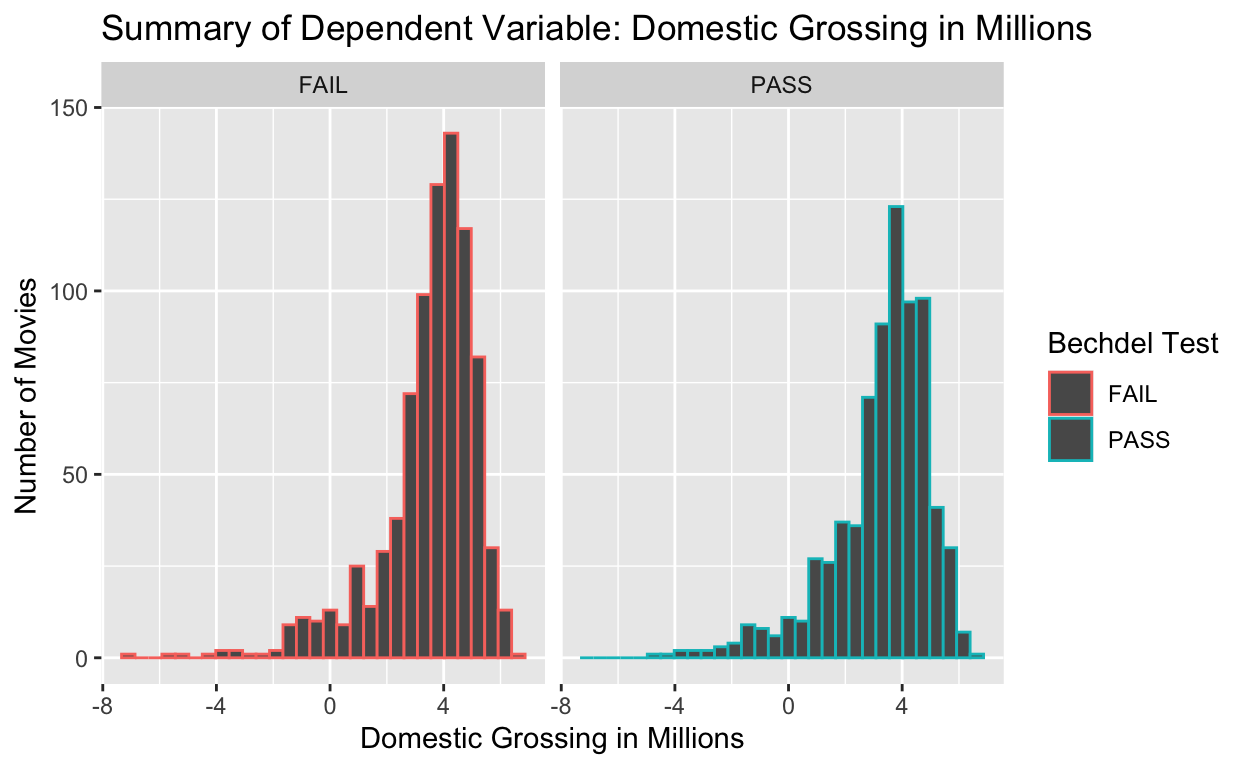
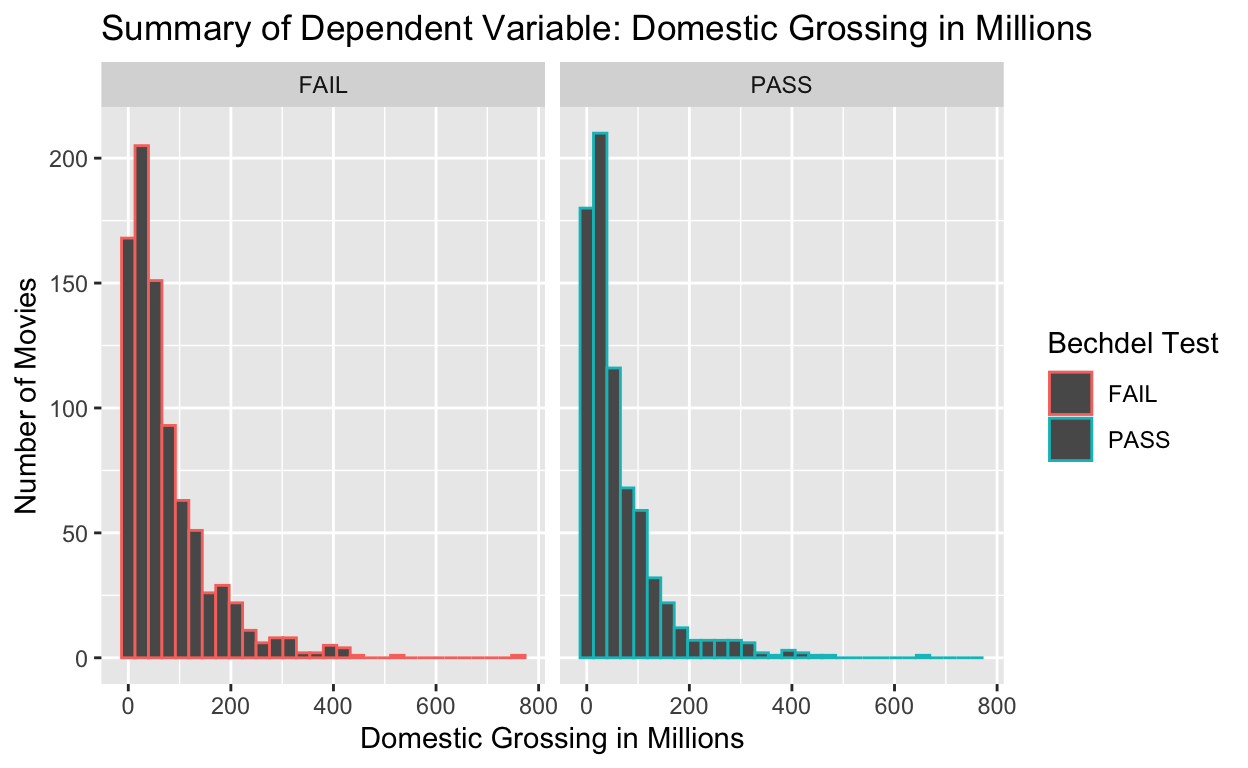
12/9 day

diff --git a/index.html b/index.html
@@ -1535,13 +1535,56 @@ code span.wa { color: #5e5e5e; font-style: italic; } /* Warning */
 </div>
 </div>
 <h1 id="data">Data</h1>
-<p>The data for this project was collected from FiveThiryEight through GitHub because it was used in a study called [“The Dollar-And-Cents Case Against Hollywood’s Exclusion of Women”] (<a href="https://fivethirtyeight.com/features/the-dollar-and-cents-case-against-hollywoods-exclusion-of-women/" class="uri">https://fivethirtyeight.com/features/the-dollar-and-cents-case-against-hollywoods-exclusion-of-women/</a>) that summarized how women have been represented in movies over time, based on the Bechdel Test. The dataset contains information about 1,795 films that range from the years 1970 to 2013. The data includes the title of each movie, a binary for whether the movie passes or fails the Bechdel Test, the budgets, the domestic grossing, and those same variables standardized based on 2013 monetary values to account for inflation. The dependent variable (the y-variable) is domestic grossing throughout the study because that is the variable used to measure the success of each film. There are a few independent variables (x-variables) that are utilized in the data visualizations including the budgets of the movies, the year they were released, and, most importantly, whether the movie passes the Bechdel Test. All of the variables are quantitative except for the Bechdel Test which is a Pass/Fail binary, another type of categorical variable. The data was collected likely from existing databases from box offices that would preserve movies’ budgets and grossing data. FiveThirtyEight, which is known for their data projects, has used a website called The-Numbers.com with daily and archived updates about how films are doing in theaters and at home, so it is very possible they took some of their data from there as well as Bechdel.com which tracks which movies pass the three criteria of the Bechdel Test. The following is a summary of the dependent variable, the domestic grossing of the movies, divided based on its Bechdel status:</p>
+<p>The data for this project was collected from FiveThiryEight through GitHub because it was used in a study called [The Dollar-And-Cents Case Against Hollywood’s Exclusion of Women] (<a href="https://fivethirtyeight.com/features/the-dollar-and-cents-case-against-hollywoods-exclusion-of-women/" class="uri">https://fivethirtyeight.com/features/the-dollar-and-cents-case-against-hollywoods-exclusion-of-women/</a>) that summarized how women have been represented in movies over time, based on the Bechdel Test. The dataset contains information about 1,795 films that range from the years 1970 to 2013. The data includes the title of each movie, a binary for whether the movie passes or fails the Bechdel Test, the budgets, the domestic grossing, and those same variables standardized based on 2013 monetary values to account for inflation. The variables in this data that will be used are described below:</p>
+<table>
+<colgroup>
+<col style="width: 24%" />
+<col style="width: 75%" />
+</colgroup>
+<thead>
+<tr class="header">
+<th style="text-align: left;">Name</th>
+<th style="text-align: left;">Description</th>
+</tr>
+</thead>
+<tbody>
+<tr class="odd">
+<td style="text-align: left;"><code>binary</code></td>
+<td style="text-align: left;">whether a movies passes or fails the Bechdel Test</td>
+</tr>
+<tr class="even">
+<td style="text-align: left;"><code>title</code></td>
+<td style="text-align: left;">movie title</td>
+</tr>
+<tr class="odd">
+<td style="text-align: left;"><code>year</code></td>
+<td style="text-align: left;">year of the movie’s release</td>
+</tr>
+<tr class="even">
+<td style="text-align: left;"><code>budget_millions</code></td>
+<td style="text-align: left;">budget for a movie in millions of US dollars</td>
+</tr>
+<tr class="odd">
+<td style="text-align: left;"><code>domgross_millsion</code></td>
+<td style="text-align: left;">domestic grossing for a movie in millions of people</td>
+</tr>
+<tr class="even">
+<td style="text-align: left;"><code>gdpPercap</code></td>
+<td style="text-align: left;">GDP per capita (US dollars, inflation-adjusted)</td>
+</tr>
+<tr class="odd">
+<td style="text-align: left;"></td>
+<td style="text-align: left;"></td>
+</tr>
+</tbody>
+</table>
+<p>The dependent variable (the y-variable) in this study is domestic grossing throughout the study because that is the variable used to measure the success of each film. There are a few independent variables (x-variables) that are utilized in the data visualizations including the budgets of the movies, the year they were released, and, most importantly, whether the movie passes the Bechdel Test. All of the variables are quantitative except for the Bechdel Test which is a Pass/Fail binary, another type of categorical variable. The data was collected likely from existing databases from box offices that would preserve movies’ budgets and grossing data. FiveThirtyEight, which is known for their data projects, has used a website called The-Numbers.com with daily and archived updates about how films are doing in theaters and at home, so it is very possible they took some of their data from there as well as Bechdel.com which tracks which movies pass the three criteria of the Bechdel Test. The following is a summary of the dependent variable, the domestic grossing of the movies, divided based on its Bechdel status:</p>
 <div class="layout-chunk" data-layout="l-body">
 <div class="sourceCode">
 <pre class="sourceCode r"><code class="sourceCode r"><span><span class='kw'><a href='https://rdrr.io/r/base/library.html'>library</a></span><span class='op'>(</span><span class='va'><a href='https://ggplot2.tidyverse.org'>ggplot2</a></span><span class='op'>)</span></span>
 <span><span class='co'>#Summary of dependent variable (domestic grossing)</span></span>
 <span><span class='va'>domgross_plot</span> <span class='op'>&lt;-</span> <span class='va'>bechdel</span> <span class='op'>|&gt;</span></span>
-<span>  <span class='fu'><a href='https://ggplot2.tidyverse.org/reference/ggplot.html'>ggplot</a></span><span class='op'>(</span><span class='va'>bechdel</span>, mapping <span class='op'>=</span> <span class='fu'><a href='https://ggplot2.tidyverse.org/reference/aes.html'>aes</a></span><span class='op'>(</span>x <span class='op'>=</span> <span class='fu'><a href='https://rdrr.io/r/base/Log.html'>log</a></span><span class='op'>(</span><span class='va'>domgross_millions</span><span class='op'>)</span>, color <span class='op'>=</span> <span class='va'>binary</span><span class='op'>)</span><span class='op'>)</span> <span class='op'>+</span> <span class='fu'><a href='https://ggplot2.tidyverse.org/reference/geom_histogram.html'>geom_histogram</a></span><span class='op'>(</span><span class='op'>)</span> <span class='op'>+</span> <span class='fu'><a href='https://ggplot2.tidyverse.org/reference/facet_wrap.html'>facet_wrap</a></span><span class='op'>(</span><span class='op'>~</span> <span class='va'>binary</span><span class='op'>)</span> <span class='op'>+</span> <span class='fu'><a href='https://ggplot2.tidyverse.org/reference/labs.html'>labs</a></span><span class='op'>(</span>x<span class='op'>=</span> <span class='st'>"Domestic Grossing in Millions"</span>, y <span class='op'>=</span> <span class='st'>"Number of Movies"</span>, title <span class='op'>=</span> <span class='st'>"Summary of Dependent Variable: Domestic Grossing in Millions"</span>, color <span class='op'>=</span> <span class='st'>"Bechdel Test"</span><span class='op'>)</span></span>
+<span>  <span class='fu'><a href='https://ggplot2.tidyverse.org/reference/ggplot.html'>ggplot</a></span><span class='op'>(</span><span class='va'>bechdel</span>, mapping <span class='op'>=</span> <span class='fu'><a href='https://ggplot2.tidyverse.org/reference/aes.html'>aes</a></span><span class='op'>(</span>x <span class='op'>=</span> <span class='va'>domgross_millions</span>, color <span class='op'>=</span> <span class='va'>binary</span><span class='op'>)</span><span class='op'>)</span> <span class='op'>+</span> <span class='fu'><a href='https://ggplot2.tidyverse.org/reference/geom_histogram.html'>geom_histogram</a></span><span class='op'>(</span><span class='op'>)</span> <span class='op'>+</span> <span class='fu'><a href='https://ggplot2.tidyverse.org/reference/facet_wrap.html'>facet_wrap</a></span><span class='op'>(</span><span class='op'>~</span> <span class='va'>binary</span><span class='op'>)</span> <span class='op'>+</span> <span class='fu'><a href='https://ggplot2.tidyverse.org/reference/labs.html'>labs</a></span><span class='op'>(</span>x<span class='op'>=</span> <span class='st'>"Domestic Grossing in Millions"</span>, y <span class='op'>=</span> <span class='st'>"Number of Movies"</span>, title <span class='op'>=</span> <span class='st'>"Summary of Dependent Variable: Domestic Grossing in Millions"</span>, color <span class='op'>=</span> <span class='st'>"Bechdel Test"</span><span class='op'>)</span></span>
 <span><span class='va'>domgross_plot</span></span></code></pre>
 </div>
 <p><img src="index_files/figure-html5/unnamed-chunk-2-1.png" width="624" /></p>
@@ -1597,16 +1640,20 @@ code span.wa { color: #5e5e5e; font-style: italic; } /* Warning */
 <span><span class='co'>#Linear Regression</span></span>
 <span><span class='va'>m.lm</span> <span class='op'>&lt;-</span> <span class='fu'><a href='https://rdrr.io/r/stats/lm.html'>lm</a></span><span class='op'>(</span><span class='va'>domgross_millions</span> <span class='op'>~</span> <span class='va'>binary</span> <span class='op'>+</span></span>
 <span>             <span class='va'>budget_millions</span> <span class='op'>+</span> <span class='va'>year</span>, </span>
-<span>           data <span class='op'>=</span> <span class='va'>bechdel</span><span class='op'>)</span></span>
+<span>           data <span class='op'>=</span> <span class='va'>bechdel2</span><span class='op'>)</span></span>
 <span><span class='va'>table</span> <span class='op'>&lt;-</span> <span class='fu'><a href='https://vincentarelbundock.github.io/modelsummary/reference/modelsummary.html'>modelsummary</a></span><span class='op'>(</span><span class='va'>m.lm</span>, stars <span class='op'>=</span> <span class='cn'>TRUE</span>,</span>
-<span>             gof_omit <span class='op'>=</span> <span class='fu'><a href='https://rdrr.io/r/base/c.html'>c</a></span><span class='op'>(</span><span class='st'>"IC|Lik.|RMSE"</span><span class='op'>)</span>,</span>
+<span>             gof_omit <span class='op'>=</span> <span class='fu'><a href='https://rdrr.io/r/base/c.html'>c</a></span><span class='op'>(</span><span class='st'>"IC|Lik.|RMSE"</span><span class='op'>)</span>, notes <span class='op'>=</span> <span class='st'>"Outcome = Domestic Grossing"</span>,</span>
 <span>             coef_rename <span class='op'>=</span> <span class='fu'><a href='https://rdrr.io/r/base/c.html'>c</a></span><span class='op'>(</span><span class='st'>"(Intercept)"</span><span class='op'>=</span><span class='st'>"Intercept"</span>, </span>
 <span>                             binaryPASS <span class='op'>=</span> <span class='st'>"Bechdel Test"</span>, </span>
 <span>                             budget_millions <span class='op'>=</span> <span class='st'>"Budget in Millions of Dollars"</span>,</span>
-<span>                             year <span class='op'>=</span> <span class='st'>"Year"</span><span class='op'>)</span>, na.rm <span class='op'>=</span> <span class='cn'>TRUE</span><span class='op'>)</span></span>
+<span>                             year <span class='op'>=</span> <span class='st'>"Year"</span><span class='op'>)</span>, na.rm <span class='op'>=</span> <span class='cn'>TRUE</span>, </span>
+<span>             title <span class='op'>=</span> <span class='st'>"Linear Regression for the Effect of Variables on Movie Domestic Grossing"</span><span class='op'>)</span></span>
 <span><span class='va'>table</span></span></code></pre>
 </div>
-<table style="NAborder-bottom: 0; width: auto !important; margin-left: auto; margin-right: auto;" class="table">
+<table style="NAborder-bottom: 0;border-bottom: 0; width: auto !important; margin-left: auto; margin-right: auto;" class="table">
+<caption>
+<span id="tab:unnamed-chunk-5">Table 1: </span>Linear Regression for the Effect of Variables on Movie Domestic Grossing
+</caption>
 <thead>
 <tr>
 <th style="text-align:left;">
@@ -1622,14 +1669,14 @@ Model 1
 Intercept
 </td>
 <td style="text-align:center;">
-2709.213***
+2704.357***
 </td>
 </tr>
 <tr>
 <td style="text-align:left;">
 </td>
 <td style="text-align:center;">
-(516.385)
+(516.630)
 </td>
 </tr>
 <tr>
@@ -1637,14 +1684,14 @@ Intercept
 Bechdel Test
 </td>
 <td style="text-align:center;">
-6.290*
+6.254*
 </td>
 </tr>
 <tr>
 <td style="text-align:left;">
 </td>
 <td style="text-align:center;">
-(3.027)
+(3.029)
 </td>
 </tr>
 <tr>
@@ -1667,7 +1714,7 @@ Budget in Millions of Dollars
 Year
 </td>
 <td style="text-align:center;">
-−1.345***
+−1.343***
 </td>
 </tr>
 <tr>
@@ -1682,7 +1729,7 @@ Year
 Num.Obs.
 </td>
 <td style="text-align:center;">
-1601
+1600
 </td>
 </tr>
 <tr>
@@ -1709,29 +1756,29 @@ R2 Adj.
 </td>
 </tr>
 </tfoot>
+<tfoot>
+<tr>
+<td style="padding: 0; " colspan="100%">
+<sup></sup> Outcome = Domestic Grossing
+</td>
+</tr>
+</tfoot>
 </table>
 </div>
 <p>This result is bolstered by the visual model of the data from the linear regression, which places the point estimate for the average predicted domestic grossing for movies that fail the test just below 50 million dollars, and the point estimate for the average predicted domestic grossing for movies that pass just above 50 million, which is not significant because the range of grossing for all the movies goes from zero to 760 million. Additionally, the model shows that the confidence intervals for the Pass and Fail outcomes of the binary variable overlap significantly, so even the difference in point estimates could be completely negated based on the parameters of the domestic grossing. The subsequent models of the predicted values of domestic grossing in millions of dollars based on budget and year show the statistical significance of those values in contrast to the lack of significance of the Bechdel value because the first plot demonstrates confidence intervals with a strong positive slope and the second represents confidence intervals with a strong negative slope, but low p-values in both cases. The final plot puts together all of the predictions exemplifying just how wide the confidence interval is for the low signficance of the Bechdel test in contrast to the high significance of budget and year on the domestic grossing numbers of the movies evaluated.</p>
 <div class="layout-chunk" data-layout="l-body">
 <div class="sourceCode">
-<pre class="sourceCode r"><code class="sourceCode r"><span><span class='fu'><a href='https://strengejacke.github.io/sjPlot/reference/plot_model.html'>plot_model</a></span><span class='op'>(</span><span class='va'>m.lm</span>, type <span class='op'>=</span> <span class='st'>"pred"</span><span class='op'>)</span></span></code></pre>
+<pre class="sourceCode r"><code class="sourceCode r"><span><span class='fu'><a href='https://strengejacke.github.io/sjPlot/reference/plot_model.html'>plot_model</a></span><span class='op'>(</span><span class='va'>m.lm</span>, type <span class='op'>=</span> <span class='st'>"pred"</span>, axis.title <span class='op'>=</span> <span class='fu'><a href='https://rdrr.io/r/base/c.html'>c</a></span><span class='op'>(</span><span class='st'>"Bechdel Test"</span>, <span class='st'>"Domestic Grossing in Millions"</span><span class='op'>)</span>, title <span class='op'>=</span> <span class='fu'><a href='https://rdrr.io/r/base/c.html'>c</a></span><span class='op'>(</span><span class='st'>"Predicted Values of Domestic Grossing in Millions"</span><span class='op'>)</span><span class='op'>)</span><span class='op'>$</span><span class='va'>binary</span></span></code></pre>
 </div>
-<pre><code>$binary</code></pre>
-<p><img src="index_files/figure-html5/unnamed-chunk-6-1.png" width="624" /></p>
-<pre><code>
-$budget_millions</code></pre>
-<p><img src="index_files/figure-html5/unnamed-chunk-6-2.png" width="624" /></p>
-<pre><code>
-$year</code></pre>
-<img src="index_files/figure-html5/unnamed-chunk-6-3.png" width="624" />
+<img src="index_files/figure-html5/unnamed-chunk-6-1.png" width="624" />
 <div class="sourceCode">
-<pre class="sourceCode r"><code class="sourceCode r"><span><span class='fu'><a href='https://strengejacke.github.io/sjPlot/reference/plot_model.html'>plot_model</a></span><span class='op'>(</span><span class='va'>m.lm</span>, show.values <span class='op'>=</span> <span class='cn'>TRUE</span><span class='op'>)</span></span></code></pre>
+<pre class="sourceCode r"><code class="sourceCode r"><span><span class='fu'><a href='https://strengejacke.github.io/sjPlot/reference/plot_model.html'>plot_model</a></span><span class='op'>(</span><span class='va'>m.lm</span>, show.values <span class='op'>=</span> <span class='cn'>TRUE</span>, axis.title <span class='op'>=</span> <span class='fu'><a href='https://rdrr.io/r/base/c.html'>c</a></span><span class='op'>(</span><span class='st'>"Estimate"</span><span class='op'>)</span>, title <span class='op'>=</span> <span class='fu'><a href='https://rdrr.io/r/base/c.html'>c</a></span><span class='op'>(</span><span class='st'>"Visualization for Linear Regression Model"</span><span class='op'>)</span><span class='op'>)</span></span></code></pre>
 </div>
-<p><img src="index_files/figure-html5/unnamed-chunk-6-4.png" width="624" /></p>
+<p><img src="index_files/figure-html5/unnamed-chunk-6-2.png" width="624" /></p>
 </div>
 <h1 id="conclusion">Conclusion</h1>
 <p>In conclusion, the linear regression found does not support the hypothesis that movies that pass the Bechdel Test are more likely to succeed in terms of grossing. Instead, it can be concluded that a movie’s Bechdel Test status has little to no effect on the viewing success of movies in the US, regardless of budget or the movies’ release year. In other words, it was extremely significant that the Bechdel binary had no statistical significance. One might be able to conclude that the feminist nature of a movie has very little effect on Americans’ interest in watching said movie. This experiment could have been improved significantly with a more randomized sample size and perhaps with a before and after element. For example, the domestic grossing numbers could have been influenced by the time of year or world events that occurred during its release, which would impact its success for reasons independent of the movie’s Bechdel status. Additionally, the experiment would be more meaningful if there was information on the viewers’ beliefs and identity for watching the movie. An ideal experiment examining the relationship between gender attitudes and movies might track viewers’ outlooks towards movies before and after watching them in a before-and-after experiment with randomized participants. The answers in these surveys might be impacted by the gender or age of the respondents which would be interesting to factor into a regression. The experiment might also have benefited from other information about each movie beyond its Bechdel status such as its racial diversity or subject matter to make the study more intersectional, or the gender of its director which is another method of finding out if gender bias plays a role in domestic grossing success.</p>
-<div class="sourceCode" id="cb4"><pre class="sourceCode r distill-force-highlighting-css"><code class="sourceCode r"></code></pre></div>
+<div class="sourceCode" id="cb1"><pre class="sourceCode r distill-force-highlighting-css"><code class="sourceCode r"></code></pre></div>
 <!--radix_placeholder_article_footer-->
 <!--/radix_placeholder_article_footer-->
 </div>
